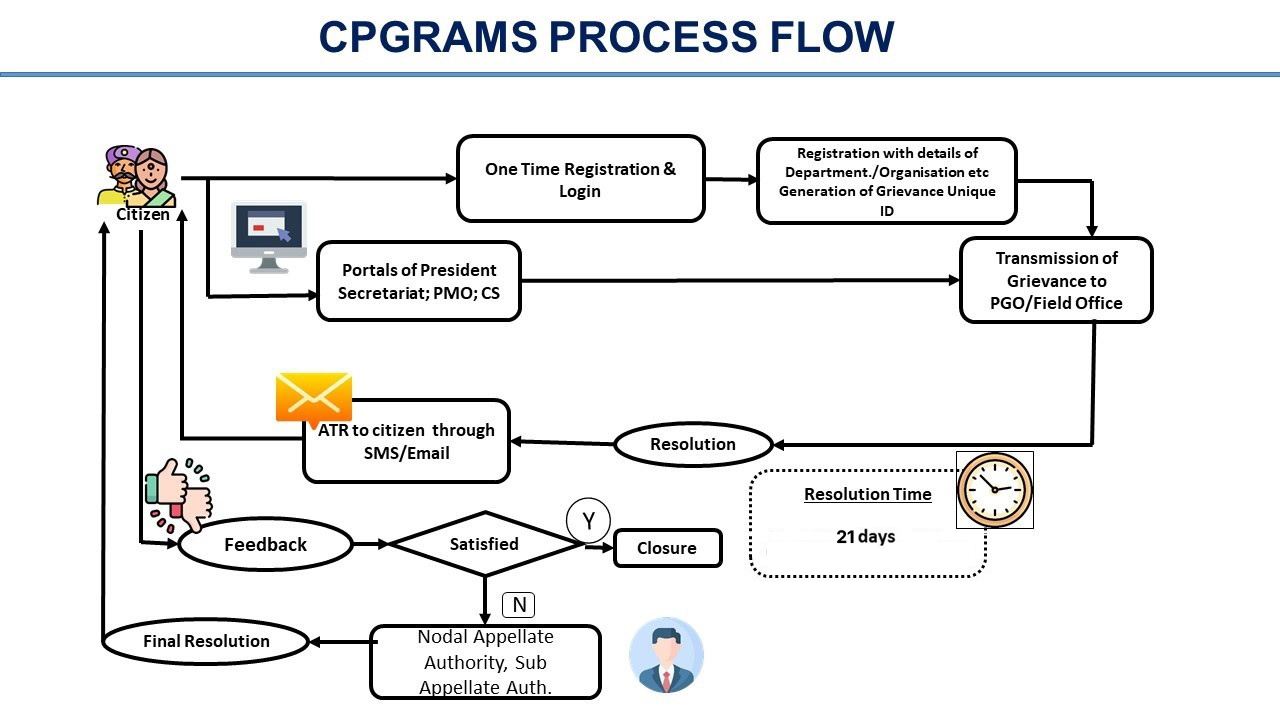
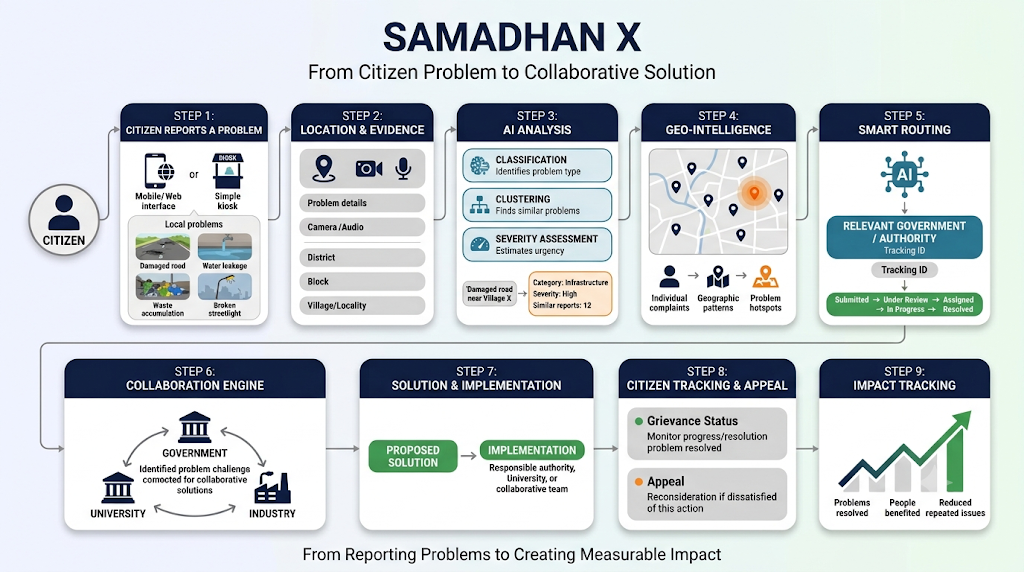
redresel flow changes

diff --git a/src/app/process-flow/page.tsx b/src/app/process-flow/page.tsx
@@ -1,53 +1,96 @@
 import React from "react";
 import Link from "next/link";
-import { ArrowRight, CheckCircle2, FileText, HelpCircle, Shield, Users } from "lucide-react";
+import {
+  ArrowRight,
+  Sparkles,
+  MapPin,
+  Cpu,
+  Globe2,
+  GitPullRequest,
+  Building2,
+  Wrench,
+  RotateCcw,
+  TrendingUp,
+} from "lucide-react";
 
 export const metadata = {
-  title: "Redress Process Flow | SmadhanX",
-  description: "Official Public Grievance Redress Process Flow and 8-Stage Lifecycle Architecture under SmadhanX.",
+  title: "Redress Process Flow | SAMADHAN X",
+  description: "Official Public Grievance Redress Process Flow and 9-Stage Collaborative Lifecycle Architecture under SAMADHAN X.",
 };
 
 export default function ProcessFlowPage() {
   const stages = [
     {
       step: "01",
-      title: "Grievance Lodging",
-      desc: "Citizen submits grievance via SmadhanX web portal, mobile application, UMANG, or CSCs with automatic Registration ID generation.",
+      title: "Citizen Reports a Problem",
+      subtitle: "Mobile/Web Interface or Simple Kiosk",
+      desc: "Citizens easily report local civic issues (e.g. damaged roads, water leakage, waste accumulation, broken streetlights) through intuitive digital touchpoints or village kiosks.",
+      icon: Sparkles,
+      color: "bg-blue-600",
     },
     {
       step: "02",
-      title: "Departmental Triage & Categorization",
-      desc: "The portal categorizes the grievance and routes it directly to the concerned Central Ministry, Department, or State Government.",
+      title: "Location & Evidence",
+      subtitle: "Rich Media & Granular Geotagging",
+      desc: "Captures problem descriptions, photos, videos, and voice recordings with verified geo-tagging down to District, Block, and Village/Locality level.",
+      icon: MapPin,
+      color: "bg-emerald-600",
     },
     {
       step: "03",
-      title: "Nodal Officer Assignment",
-      desc: "The Central/State Nodal PG Officer reviews the grievance and assigns it to the designated Sub-Nodal / Action Officer with a defined SLA.",
+      title: "AI Analysis",
+      subtitle: "Classification, Clustering & Urgency",
+      desc: "AI classification identifies the grievance category, clusters identical/duplicate reports, and assesses severity scores to prioritize critical community hazards.",
+      icon: Cpu,
+      color: "bg-indigo-600",
     },
     {
       step: "04",
-      title: "Field Investigation & Action",
-      desc: "Field officers inspect on-ground conditions, initiate necessary administrative or corrective action, and coordinate with local authorities.",
+      title: "Geo-Intelligence",
+      subtitle: "Heatmaps & Pattern Recognition",
+      desc: "Aggregates individual complaints across geographical boundaries to detect systemic patterns, spatial density, and civic problem hotspots.",
+      icon: Globe2,
+      color: "bg-purple-600",
     },
     {
       step: "05",
-      title: "Inter-Departmental Examination",
-      desc: "If multiple departments or subordinate offices are involved, the nodal authority coordinates joint examination to ensure resolution.",
+      title: "Smart Routing",
+      subtitle: "Automated Dispatch with Tracking ID",
+      desc: "AI automatically routes tickets to the concerned Government authority with a unique Tracking ID: Submitted → Under Review → Assigned → In Progress → Resolved.",
+      icon: GitPullRequest,
+      color: "bg-amber-600",
     },
     {
       step: "06",
-      title: "Resolution & Evidence Upload",
-      desc: "Officer submits photographic evidence and formal action-taken report before marking the grievance as resolved.",
+      title: "Collaboration Engine",
+      subtitle: "Government, University & Industry",
+      desc: "Connects persistent or complex public challenges with academia and industry innovators for collaborative, tech-driven, and sustainable problem solving.",
+      icon: Building2,
+      color: "bg-cyan-700",
     },
     {
       step: "07",
-      title: "Citizen Feedback & Rating",
-      desc: "Citizen receives SMS/email notification with resolution summary. The citizen rates the resolution from Excellent to Poor.",
+      title: "Solution & Implementation",
+      subtitle: "Action Plan to Field Execution",
+      desc: "A concrete, cost-effective solution is formulated and deployed by the designated nodal authority, academic teams, or collaborative partners.",
+      icon: Wrench,
+      color: "bg-teal-600",
     },
     {
       step: "08",
-      title: "Appellate Review (If Rating is Poor)",
-      desc: "If citizen rates resolution as 'Poor' or is dissatisfied, the portal enables filing an Appeal to the Appellate Nodal Authority for re-investigation.",
+      title: "Citizen Tracking & Appeal",
+      subtitle: "Live Status & Democratic Recourse",
+      desc: "Citizens track progress in real-time. If the resolution is inadequate or dissatisfied, a built-in appellate mechanism ensures fair re-evaluation.",
+      icon: RotateCcw,
+      color: "bg-rose-600",
+    },
+    {
+      step: "09",
+      title: "Impact Tracking",
+      subtitle: "Measurable Outcomes & Prevention",
+      desc: "Monitors lasting civic impact: problems solved, citizens benefited, and systemic recurring complaints eliminated across communities.",
+      icon: TrendingUp,
+      color: "bg-green-700",
     },
   ];
 
@@ -56,65 +99,98 @@ export default function ProcessFlowPage() {
       {/* Header Banner */}
       <div className="gov-card p-6 gov-border-t-navy bg-white">
         <div className="max-w-4xl mx-auto text-center space-y-2">
-          <span className="text-xs font-bold uppercase tracking-wider text-gov-saffron bg-orange-50 px-2.5 py-1 rounded-full border border-orange-200">
-            SmadhanX Standard Operating Procedure
+          <span className="text-xs font-bold uppercase tracking-wider text-gov-saffron bg-orange-50 px-3 py-1 rounded-full border border-orange-200">
+            SAMADHAN X Architecture & Standard Operating Procedure
           </span>
           <h1 className="text-2xl sm:text-3xl font-extrabold text-gov-navy font-serif tracking-tight">
-            Redress Process Flow & Lifecycle
+            Redress Process Flow & Solution Architecture
           </h1>
           <p className="text-xs sm:text-sm text-slate-600 max-w-2xl mx-auto">
-            Comprehensive workflow diagram illustrating grievance submission, departmental allocation, investigation, resolution, and appellate review.
+            From Citizen Problem to Collaborative Solution: Comprehensive next-generation grievance redressal architecture powered by AI, geo-intelligence, and multi-stakeholder collaboration.
           </p>
         </div>
       </div>
 
-      {/* Official Flow Chart Image from Scraped Assets */}
+      {/* Official SAMADHAN X Architecture Diagram */}
       <div className="gov-card p-6 sm:p-8 bg-white text-center shadow-lg border border-slate-200">
-        <h2 className="text-lg font-bold text-gov-navy mb-4 font-serif">
-          Official Grievance Redressal Architecture Diagram
-        </h2>
-        <div className="bg-slate-50 p-4 rounded-xl border border-slate-200 inline-block max-w-full">
+        <div className="max-w-4xl mx-auto mb-5">
+          <span className="text-[11px] font-bold text-gov-navy uppercase tracking-widest bg-blue-50 px-2.5 py-1 rounded-md border border-blue-100">
+            Official System Workflow
+          </span>
+          <h2 className="text-xl sm:text-2xl font-bold text-gov-navy mt-2 font-serif">
+            SAMADHAN X Collaborative Redressal Architecture
+          </h2>
+          <p className="text-xs sm:text-sm text-slate-500 mt-1">
+            From Citizen Problem to Collaborative Solution — From Reporting Problems to Creating Measurable Impact
+          </p>
+        </div>
+
+        <div className="bg-gradient-to-b from-slate-50 to-slate-100/70 p-3 sm:p-5 rounded-2xl border border-slate-200 inline-block w-full max-w-5xl shadow-inner">
           <img
-            src="/Images/flowChart.jpg"
-            alt="Official SmadhanX Redress Process Flow Chart"
-            className="max-h-[600px] w-auto mx-auto object-contain rounded-lg shadow-sm"
+            src="/Images/samadhanx-flow.png"
+            alt="SAMADHAN X - From Citizen Problem to Collaborative Solution Process Flow Diagram"
+            className="w-full h-auto max-h-[750px] mx-auto object-contain rounded-xl shadow-md bg-white border border-slate-200"
           />
         </div>
         <p className="text-xs text-slate-500 mt-4">
-          Source: Department of Administrative Reforms and Public Grievances (DARPG), Government of India.
+          SAMADHAN X — Next-Generation National Civic Problem-Solving & Grievance Redressal Architecture.
         </p>
       </div>
 
       {/* Step by Step Breakdown */}
       <div className="gov-card p-6 sm:p-8 bg-white space-y-6">
         <div className="border-b border-slate-200 pb-3">
-          <h2 className="text-xl font-bold text-gov-navy font-serif">
-            8-Stage Grievance Redress Lifecycle
-          </h2>
-          <p className="text-xs text-slate-600 mt-0.5">
-            Transparent milestones tracked in real time on the National Civic Problem-Solving Platform.
-          </p>
+          <div className="flex flex-wrap items-center justify-between gap-2">
+            <div>
+              <h2 className="text-xl font-bold text-gov-navy font-serif">
+                9-Stage Collaborative Redress Lifecycle
+              </h2>
+              <p className="text-xs text-slate-600 mt-0.5">
+                Milestones tracked end-to-end with full transparency, accountability, and citizen participation.
+              </p>
+            </div>
+            <span className="text-xs font-semibold text-gov-navy bg-slate-100 px-3 py-1 rounded-full border border-slate-200">
+              Stages 01 – 09
+            </span>
+          </div>
         </div>
 
-        <div className="grid grid-cols-1 md:grid-cols-2 gap-4">
-          {stages.map((stage) => (
-            <div
-              key={stage.step}
-              className="p-4 rounded-xl bg-slate-50 border border-slate-200 flex items-start gap-3 hover:border-gov-navy hover:bg-white transition shadow-sm"
-            >
-              <div className="w-10 h-10 rounded-lg bg-gov-navy text-white flex items-center justify-center font-bold text-sm flex-shrink-0 shadow-sm">
-                {stage.step}
+        <div className="grid grid-cols-1 md:grid-cols-2 lg:grid-cols-3 gap-4">
+          {stages.map((stage) => {
+            const Icon = stage.icon;
+            return (
+              <div
+                key={stage.step}
+                className="p-5 rounded-xl bg-slate-50/80 border border-slate-200 hover:border-gov-navy hover:bg-white transition shadow-xs hover:shadow-md flex flex-col justify-between group"
+              >
+                <div className="space-y-3">
+                  <div className="flex items-center justify-between">
+                    <span className="w-9 h-9 rounded-lg bg-gov-navy text-white flex items-center justify-center font-black text-xs shadow-xs group-hover:bg-gov-saffron transition-colors">
+                      {stage.step}
+                    </span>
+                    <div className={`p-2 rounded-lg text-white ${stage.color} shadow-xs`}>
+                      <Icon className="w-4 h-4" />
+                    </div>
+                  </div>
+                  <div>
+                    <h3 className="text-sm font-bold text-slate-900 leading-snug group-hover:text-gov-navy transition-colors">
+                      {stage.title}
+                    </h3>
+                    <p className="text-[11px] font-semibold text-gov-saffron mt-0.5">
+                      {stage.subtitle}
+                    </p>
+                  </div>
+                  <p className="text-xs text-slate-600 leading-relaxed pt-1 border-t border-slate-200/60">
+                    {stage.desc}
+                  </p>
+                </div>
               </div>
-              <div className="space-y-1">
-                <h3 className="text-sm font-bold text-slate-900">{stage.title}</h3>
-                <p className="text-xs text-slate-600 leading-relaxed">{stage.desc}</p>
-              </div>
-            </div>
-          ))}
+            );
+          })}
         </div>
 
         {/* Action Button Links */}
-        <div className="pt-4 flex flex-wrap items-center justify-center gap-4">
+        <div className="pt-4 flex flex-wrap items-center justify-center gap-4 border-t border-slate-200">
           <Link
             href="/citizen/report"
             className="px-6 py-2.5 rounded-lg bg-gov-saffron hover:bg-orange-600 text-white font-bold text-xs shadow-sm transition flex items-center gap-1.5"

diff --git a/public/smadhanx/Home/ProcessFlow/index.html b/public/smadhanx/Home/ProcessFlow/index.html
@@ -252,10 +252,10 @@
 
 <div class="card card2 m-3">
     <div class="card-header text-center">
-        <h4 class="px-3 fs-5 fw-bold">Redress Process Flow</h4>
+        <h4 class="px-3 fs-5 fw-bold">SAMADHAN X - Redress Process Flow</h4>
     </div>
     <div class="card-body text-center">
-        <img src="../../Images/flowChart.jpg" class="img-fluid" alt="Flow Chart for grievance channels">
+        <img src="../../Images/samadhanx-flow.png" class="img-fluid" alt="SAMADHAN X Process Flow">
     </div>
 </div>
                 </div>
